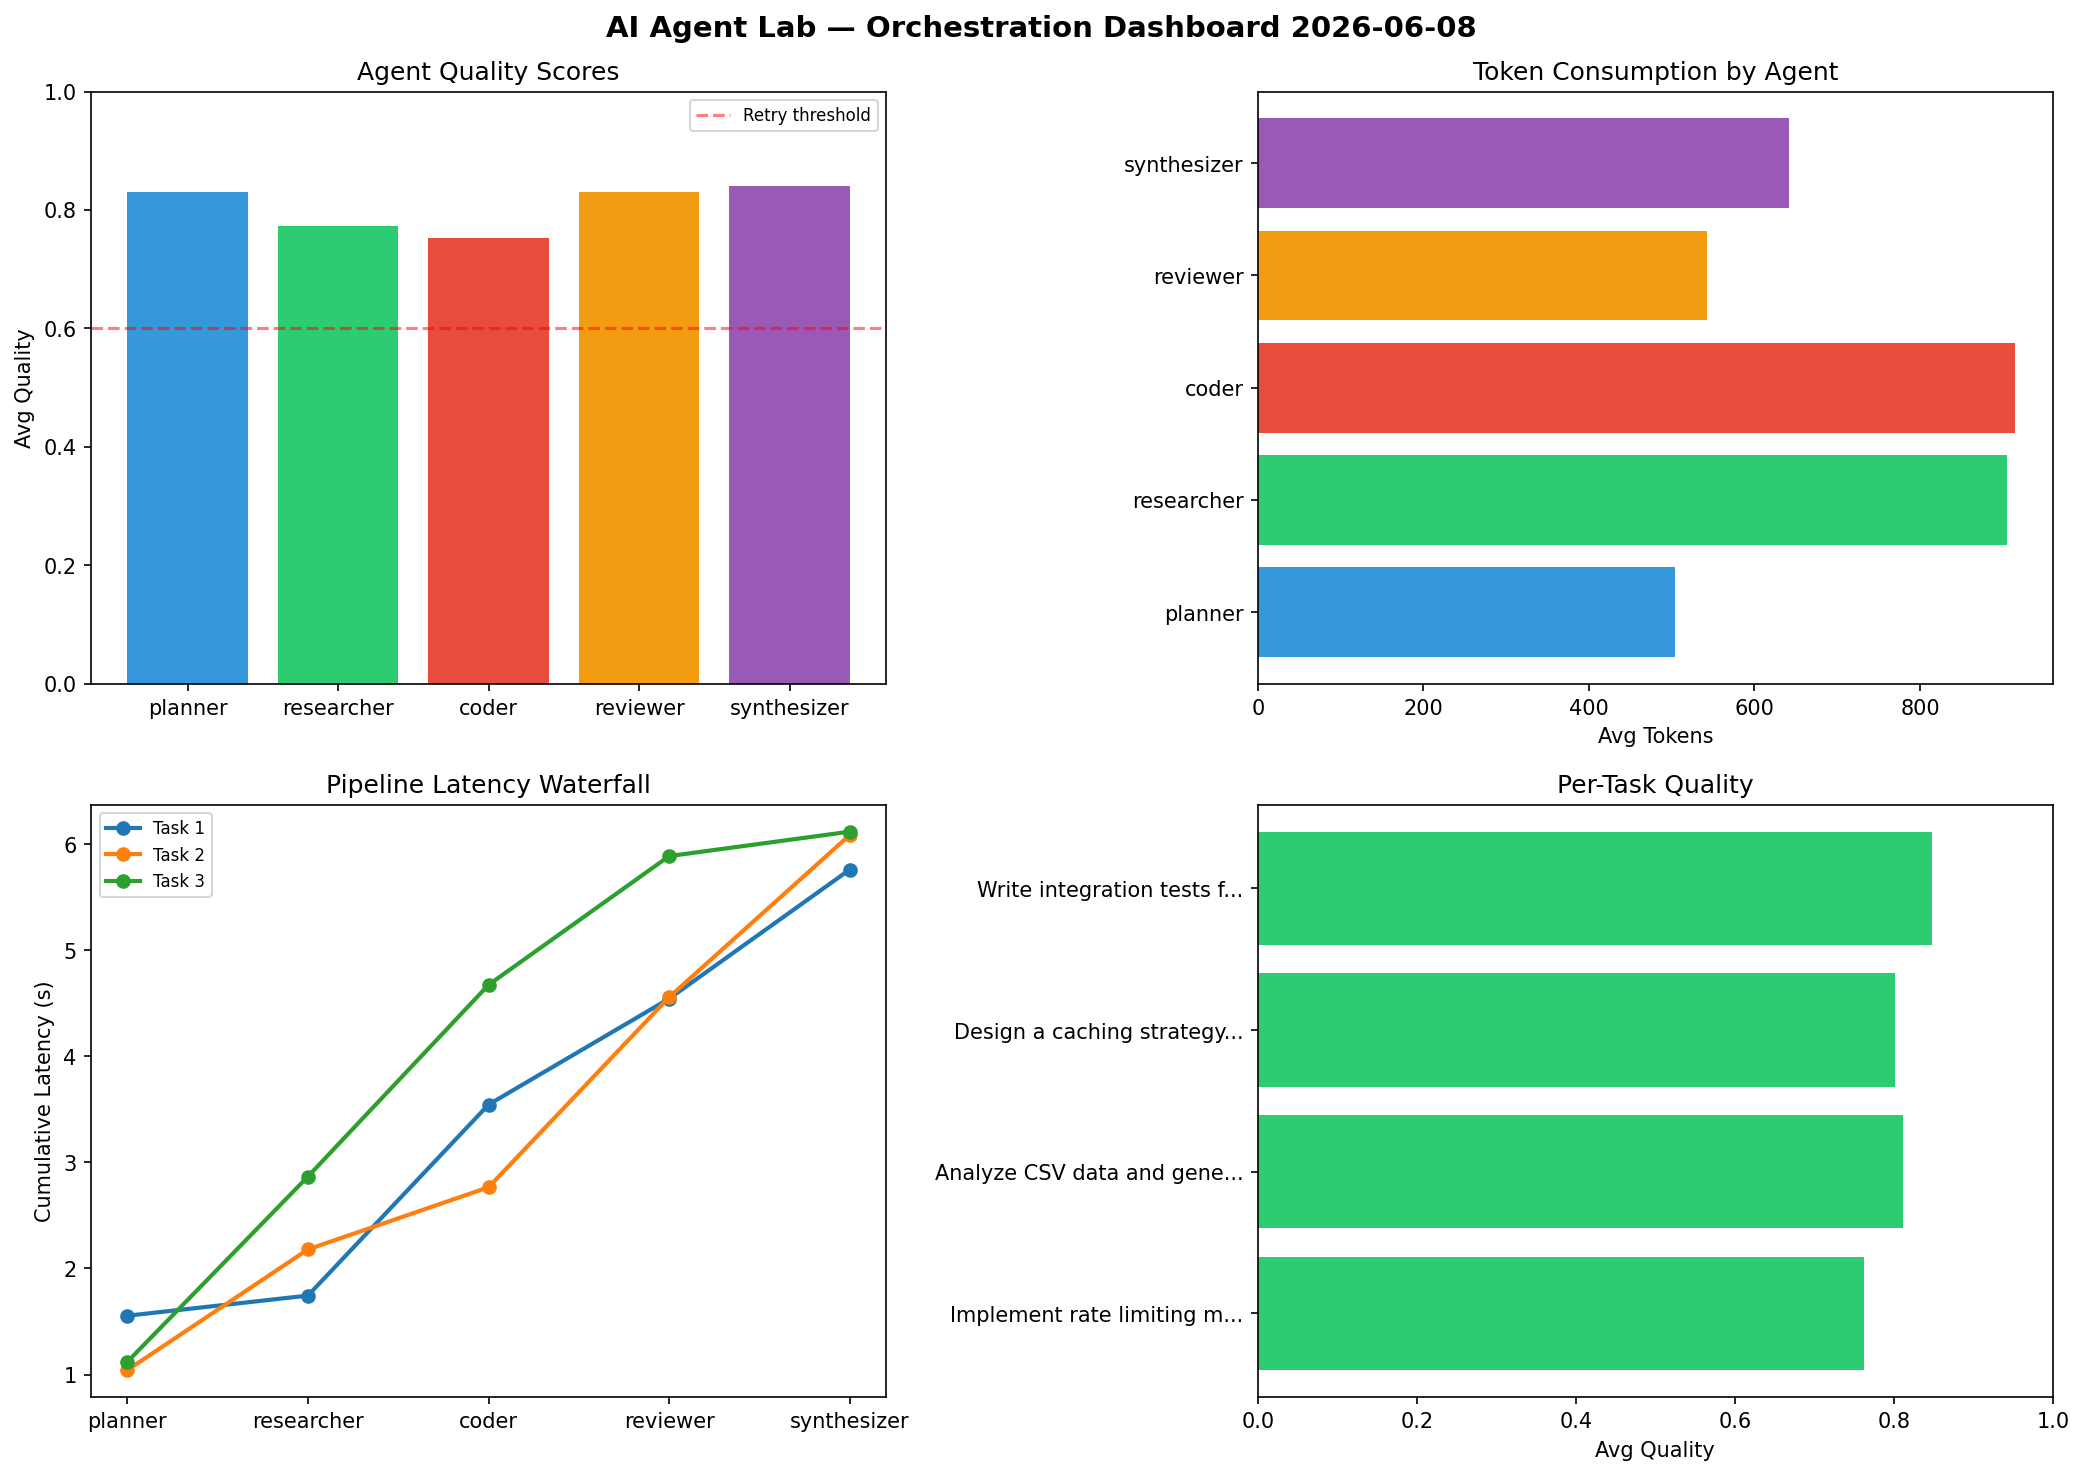
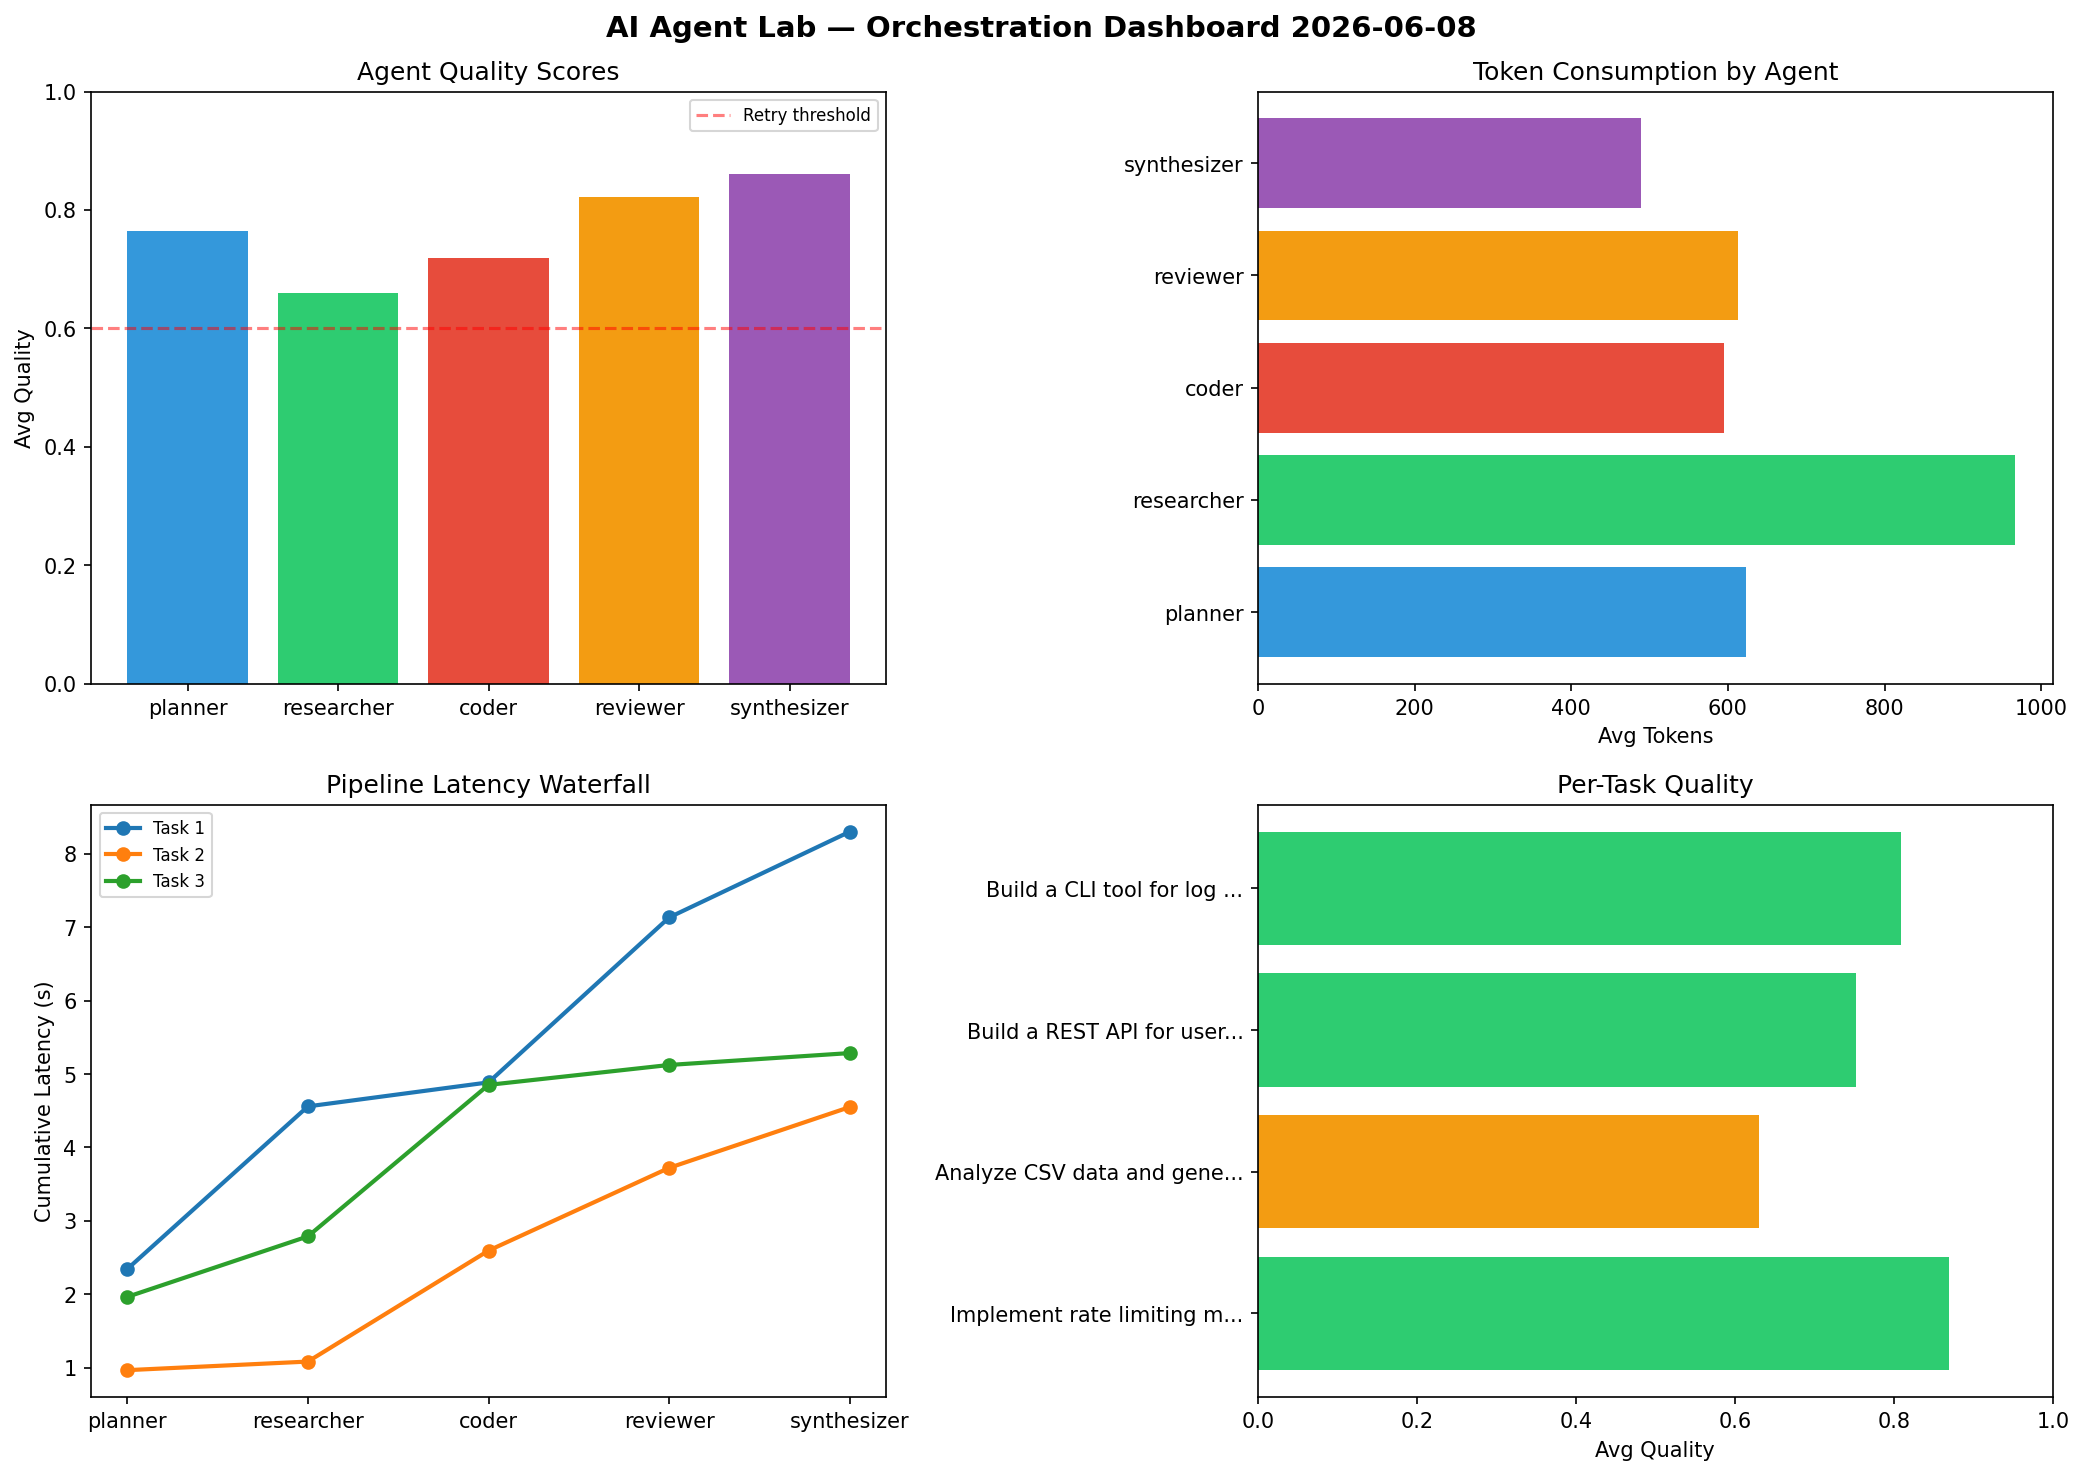
ai-agent-lab: orchestration run 2026-06-08T17:29

diff --git a/logs/2026-06-08.md b/logs/2026-06-08.md
@@ -1,6 +1,6 @@
 # AI Agent Lab — Orchestration Report 2026-06-08
 
-**Run ID:** `907efc6a63` | **Tasks:** 4 | **Avg Quality:** 0.806
+**Run ID:** `81069f9f75` | **Tasks:** 4 | **Avg Quality:** 0.765
 
 ![Dashboard](2026-06-08_dashboard.png)
 
@@ -8,52 +8,52 @@
 
 | Metric | Value |
 |--------|-------|
-| avg_latency | 5.544 |
-| total_tokens | 14035 |
-| avg_quality | 0.806 |
+| avg_latency | 6.062 |
+| total_tokens | 13147 |
+| avg_quality | 0.765 |
 
 ## Delta vs Yesterday
 
 | Metric | Today | Yesterday | Change |
 |--------|-------|-----------|--------|
-| avg_latency | 5.544 | 7.374 | 📉 -24.8% |
-| total_tokens | 14035 | 16499 | 📉 -14.9% |
-| avg_quality | 0.806 | 0.792 | 📈 1.8% |
+| avg_latency | 6.062 | 7.374 | 📉 -17.8% |
+| total_tokens | 13147 | 16499 | 📉 -20.3% |
+| avg_quality | 0.765 | 0.792 | 📉 -3.4% |
 
 ## Pipeline Results
 
 ### Implement rate limiting middleware
 | Agent | Quality | Latency | Tokens | Status |
 |-------|---------|---------|--------|--------|
-| planner | 0.863 | 1.554s | 647 | success |
-| researcher | 0.684 | 0.19s | 1146 | success |
-| coder | 0.797 | 1.8s | 661 | success |
-| reviewer | 0.663 | 0.999s | 503 | success |
-| synthesizer | 0.803 | 1.217s | 717 | success |
+| planner | 0.7 | 2.344s | 641 | success |
+| researcher | 0.747 | 2.215s | 803 | success |
+| coder | 0.95 | 0.327s | 339 | success |
+| reviewer | 0.976 | 2.246s | 709 | success |
+| synthesizer | 0.972 | 1.168s | 405 | success |
 
 ### Analyze CSV data and generate statistical summary
 | Agent | Quality | Latency | Tokens | Status |
 |-------|---------|---------|--------|--------|
-| planner | 0.934 | 1.041s | 352 | success |
-| researcher | 0.905 | 1.138s | 1058 | success |
-| coder | 0.726 | 0.586s | 1119 | success |
-| reviewer | 0.874 | 1.792s | 649 | success |
-| synthesizer | 0.621 | 1.529s | 886 | success |
+| planner | 0.717 | 0.967s | 552 | success |
+| researcher | 0.558 | 0.117s | 975 | needs_retry |
+| coder | 0.598 | 1.511s | 891 | needs_retry |
+| reviewer | 0.622 | 1.127s | 724 | success |
+| synthesizer | 0.656 | 0.828s | 232 | success |
 
-### Design a caching strategy for high-traffic endpoints
+### Build a REST API for user authentication
 | Agent | Quality | Latency | Tokens | Status |
 |-------|---------|---------|--------|--------|
-| planner | 0.538 | 1.119s | 598 | needs_retry |
-| researcher | 0.967 | 1.747s | 613 | success |
-| coder | 0.629 | 1.807s | 1086 | success |
-| reviewer | 0.932 | 1.214s | 501 | success |
-| synthesizer | 0.938 | 0.23s | 719 | success |
+| planner | 0.883 | 1.965s | 662 | success |
+| researcher | 0.728 | 0.824s | 998 | success |
+| coder | 0.524 | 2.063s | 304 | needs_retry |
+| reviewer | 0.799 | 0.271s | 556 | success |
+| synthesizer | 0.824 | 0.162s | 771 | success |
 
-### Write integration tests for payment processing module
+### Build a CLI tool for log analysis
 | Agent | Quality | Latency | Tokens | Status |
 |-------|---------|---------|--------|--------|
-| planner | 0.987 | 1.425s | 418 | success |
-| researcher | 0.538 | 0.647s | 806 | needs_retry |
-| coder | 0.86 | 0.945s | 793 | success |
-| reviewer | 0.855 | 0.804s | 518 | success |
-| synthesizer | 1.0 | 0.391s | 245 | success |
+| planner | 0.757 | 0.657s | 637 | success |
+| researcher | 0.605 | 0.33s | 1090 | success |
+| coder | 0.802 | 1.407s | 844 | success |
+| reviewer | 0.891 | 1.654s | 464 | success |
+| synthesizer | 0.992 | 2.067s | 550 | success |
